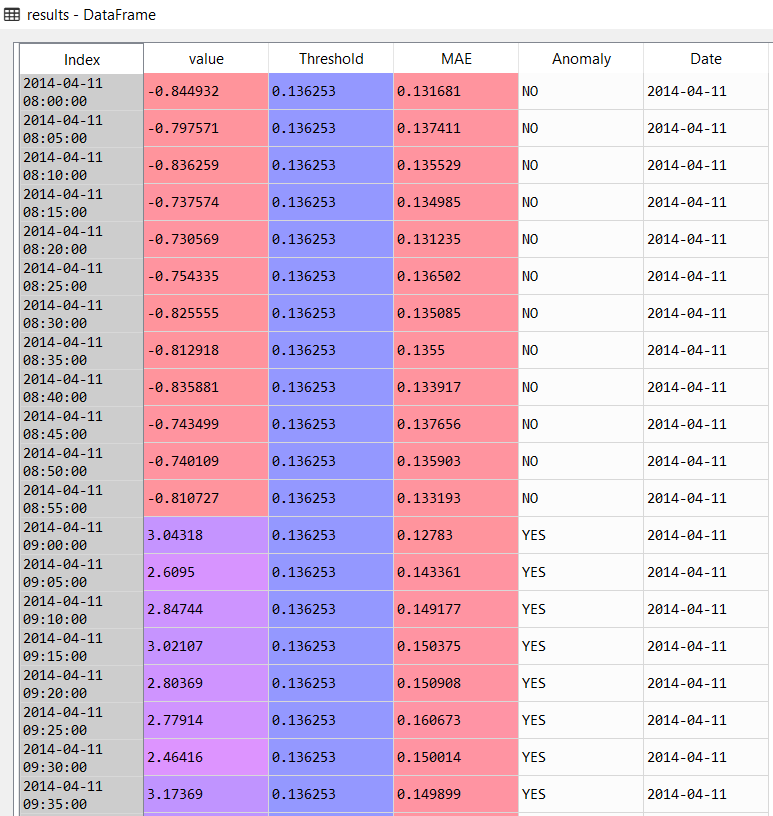
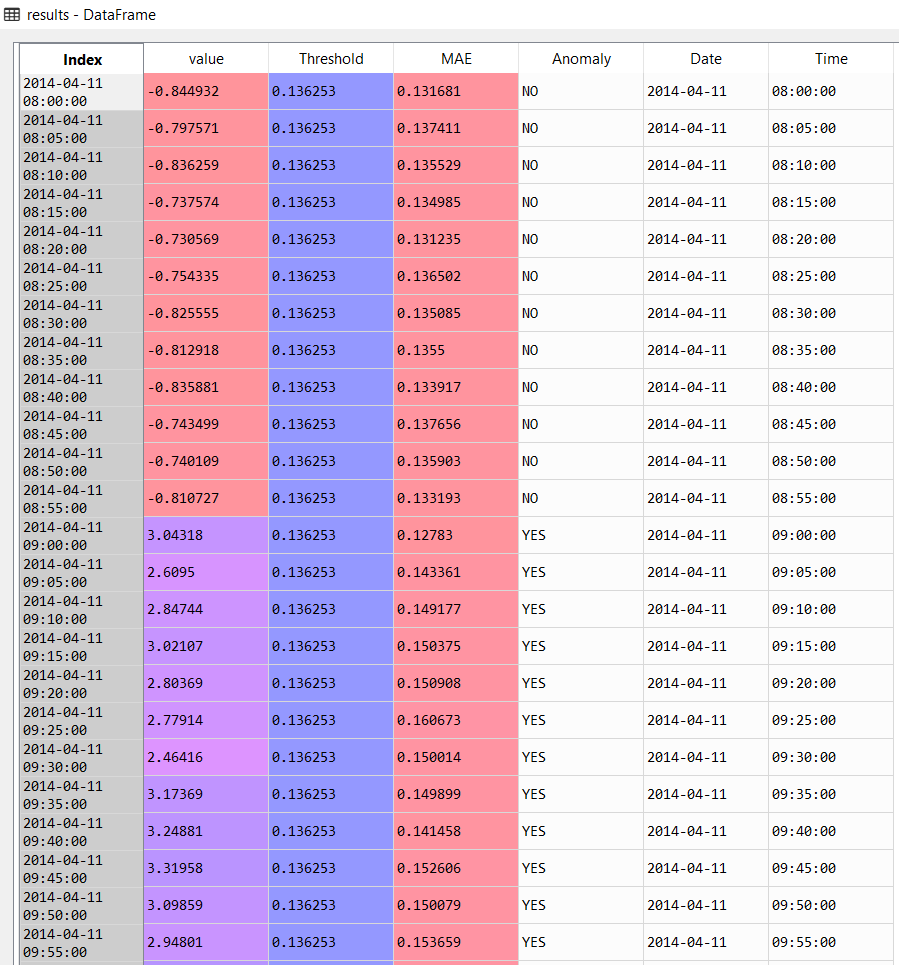
final output of stage - 2 updated

diff --git a/test_class_functions.py b/test_class_functions.py
@@ -85,8 +85,12 @@ class test_data:
         final_output['Anomaly'].iloc[anomalous_data_indices] = 'YES'
         print('Anomaly added')
         date_string = [str(i.date()) for i in final_output.index]
-        
         final_output['Date'] = date_string
+        
+        time_string = [str(i.time()) for i in final_output.index]
+        final_output['Time'] = time_string
+        
+        
         return final_output      
         
     # Generated training sequences for use in the model.
